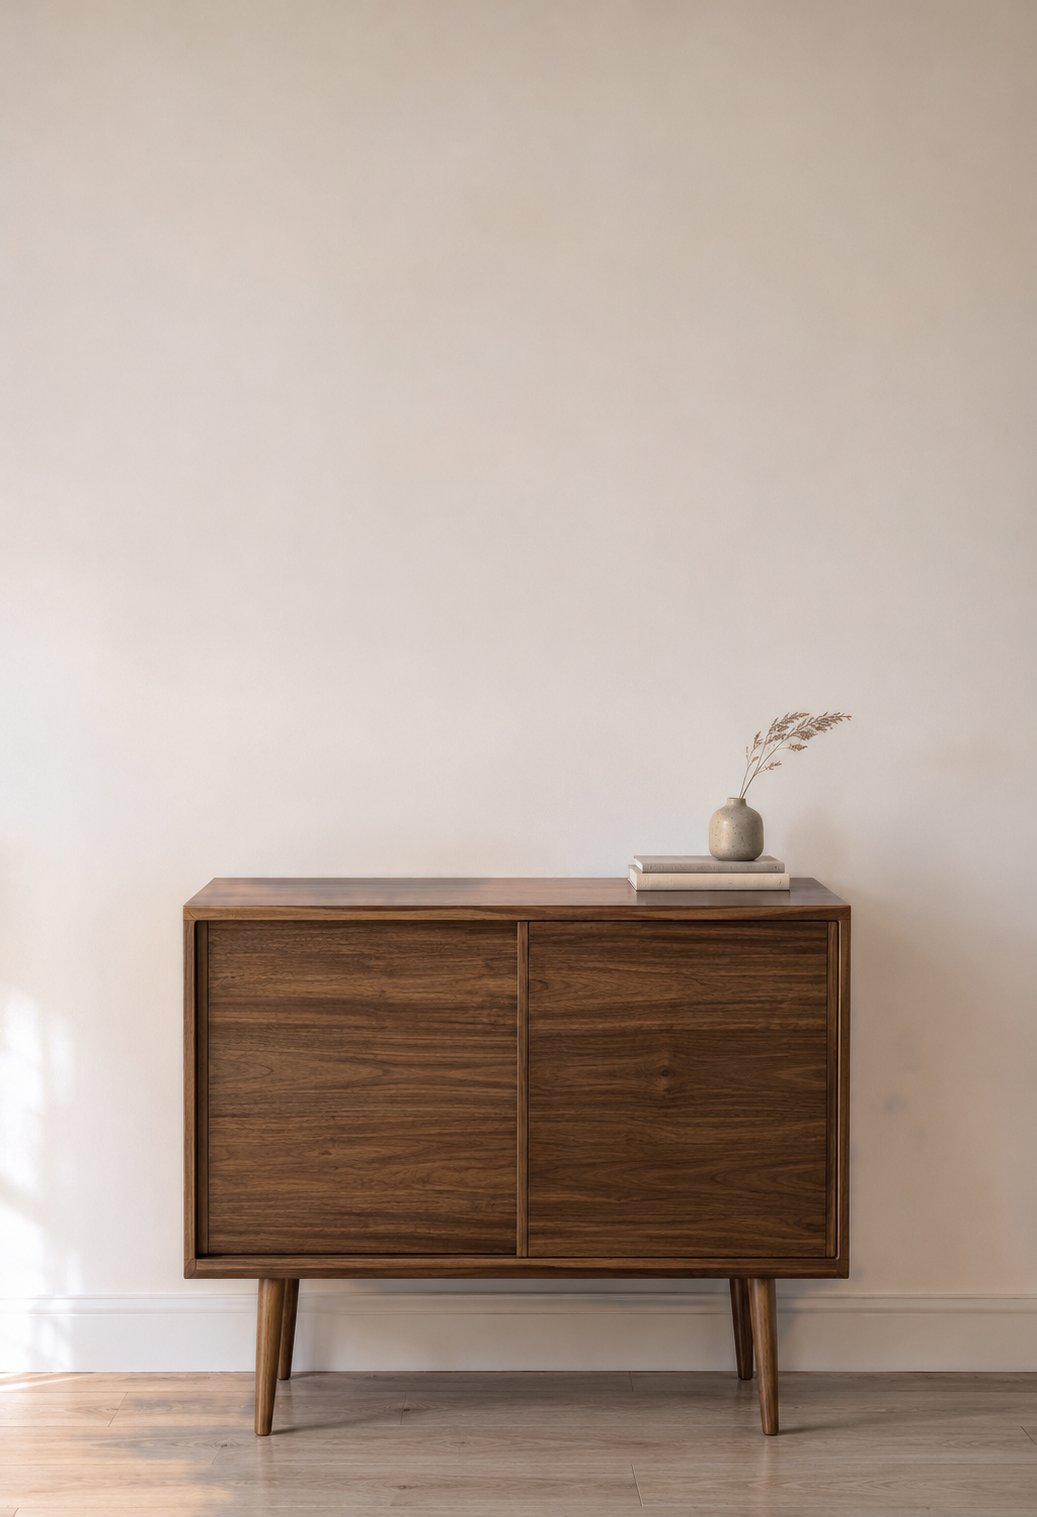
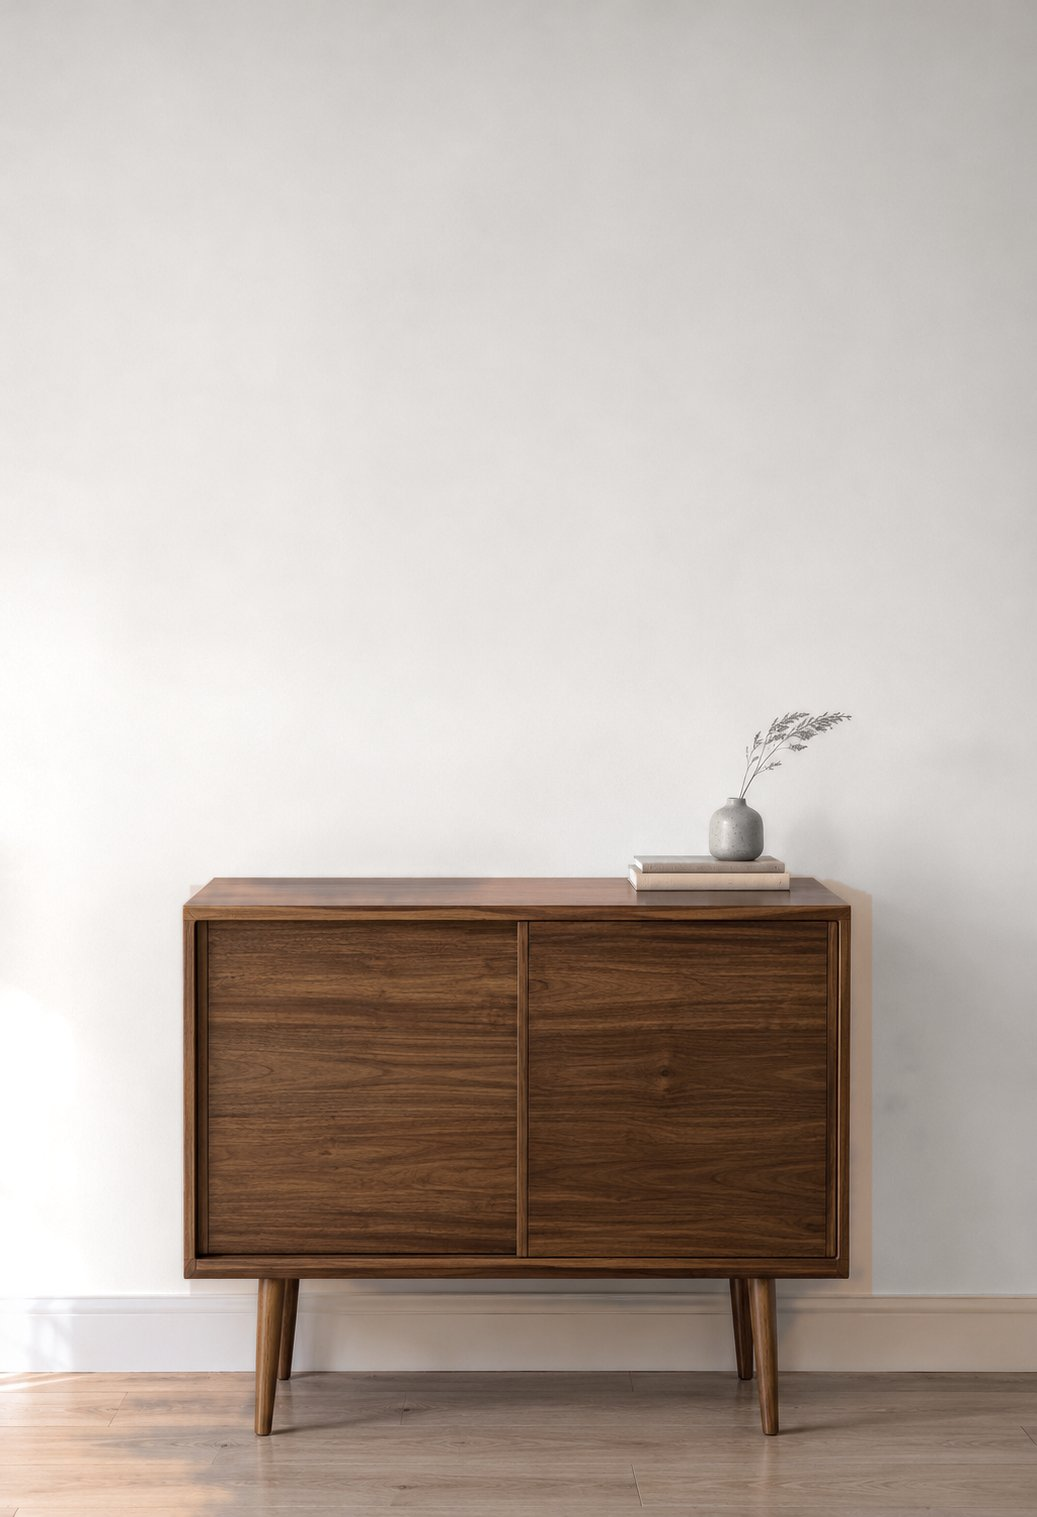
Soft white wall in the room view; Near the Austrian Border as the Landscapes tile
Claude-Session: https://claude.ai/code/session_01DXftZE4vQKfDt7Q36KHzd9

diff --git a/index.html b/index.html
@@ -34,7 +34,7 @@
 <p class="lede">Paintings and drawings, <span class="gap">[earliest surviving year]</span> to now</p>
 <p>Over more than sixty years, Joan Mullins has worked across a remarkable range of subjects and styles, from closely observed landscapes and botanical studies to intricate compositions drawn entirely from imagination. These galleries bring together the different strands of a lifetime’s painting.</p>
 </section>
-<section class="wrap block"><h2 class="eyebrow">The galleries</h2><div class="tiles"><a class="tile" href="g-landscapes.html"><img src="img/t/133.jpg" alt="Oil painting of five silver birch trees reflected in a still pool in a green meadow." loading="lazy"><span class="tn">Landscapes</span><span class="ts">Throughout her career</span></a><a class="tile" href="g-figurative-work.html"><img src="img/t/066.jpg" alt="Pencil drawing of three faces framed by flowing, patterned shapes and flowers." loading="lazy"><span class="tn">Figurative work</span><span class="ts">Throughout her career</span></a><a class="tile" href="g-botanical-work.html"><img src="img/t/039.jpg" alt="Watercolour of bright pink peonies with yellow centres, buds and green leaves, on white paper." loading="lazy"><span class="tn">Botanical work</span><span class="ts">About 1980 to 2000</span></a><a class="tile" href="g-watercolours-of-the-imagination.html"><img src="img/t/076.jpg" alt="Watercolour of a huge surging wave, with a small group of figures standing on the shore in the distance." loading="lazy"><span class="tn">Watercolours of the imagination</span><span class="ts">About the 1990s to 2013</span></a><a class="tile" href="g-still-life.html"><img src="img/t/019.jpg" alt="Oil still life of a small, round, spotted bowl lying beside white daisies on a blue checked cloth." loading="lazy"><span class="tn">Still life</span><span class="ts"><span class="gap">[Dates, from Joan]</span></span></a><a class="tile" href="g-illustrated-poems.html"><img src="img/t/p9.jpg" alt="Illustrated poem: the words of William Blake&#x27;s &#x27;The Tyger&#x27;, hand-lettered across a painting of a tiger&#x27;s face against a starry night sky." loading="lazy"><span class="tn">Illustrated poems</span><span class="ts">2018 to 2020</span></a><a class="tile" href="g-sea-imaginings.html"><img src="img/t/171.jpg" alt="Oil painting of a white argonaut shell against a swirling deep blue background." loading="lazy"><span class="tn">Sea imaginings</span><span class="ts">Since moving to Nantwich</span></a><a class="tile" href="sold.html"><img src="img/t/104.jpg" alt="Oil painting of birch trees in autumn" loading="lazy"><span class="tn">Sold</span><span class="ts">Paintings that have found homes</span></a></div><p class="after-tiles"><a href="for-sale.html">See all 80 paintings for sale</a></p></section>
+<section class="wrap block"><h2 class="eyebrow">The galleries</h2><div class="tiles"><a class="tile" href="g-landscapes.html"><img src="img/t/091.jpg" alt="Oil painting of green alpine valleys and mountains near the Austrian-German border, with a small farmhouse in the meadow." loading="lazy"><span class="tn">Landscapes</span><span class="ts">Throughout her career</span></a><a class="tile" href="g-figurative-work.html"><img src="img/t/066.jpg" alt="Pencil drawing of three faces framed by flowing, patterned shapes and flowers." loading="lazy"><span class="tn">Figurative work</span><span class="ts">Throughout her career</span></a><a class="tile" href="g-botanical-work.html"><img src="img/t/039.jpg" alt="Watercolour of bright pink peonies with yellow centres, buds and green leaves, on white paper." loading="lazy"><span class="tn">Botanical work</span><span class="ts">About 1980 to 2000</span></a><a class="tile" href="g-watercolours-of-the-imagination.html"><img src="img/t/076.jpg" alt="Watercolour of a huge surging wave, with a small group of figures standing on the shore in the distance." loading="lazy"><span class="tn">Watercolours of the imagination</span><span class="ts">About the 1990s to 2013</span></a><a class="tile" href="g-still-life.html"><img src="img/t/019.jpg" alt="Oil still life of a small, round, spotted bowl lying beside white daisies on a blue checked cloth." loading="lazy"><span class="tn">Still life</span><span class="ts"><span class="gap">[Dates, from Joan]</span></span></a><a class="tile" href="g-illustrated-poems.html"><img src="img/t/p9.jpg" alt="Illustrated poem: the words of William Blake&#x27;s &#x27;The Tyger&#x27;, hand-lettered across a painting of a tiger&#x27;s face against a starry night sky." loading="lazy"><span class="tn">Illustrated poems</span><span class="ts">2018 to 2020</span></a><a class="tile" href="g-sea-imaginings.html"><img src="img/t/171.jpg" alt="Oil painting of a white argonaut shell against a swirling deep blue background." loading="lazy"><span class="tn">Sea imaginings</span><span class="ts">Since moving to Nantwich</span></a><a class="tile" href="sold.html"><img src="img/t/104.jpg" alt="Oil painting of birch trees in autumn" loading="lazy"><span class="tn">Sold</span><span class="ts">Paintings that have found homes</span></a></div><p class="after-tiles"><a href="for-sale.html">See all 80 paintings for sale</a></p></section>
 <section class="band"><div class="wrap about-strip">
 <img src="img/joan.jpg" alt="Joan Mullins smiling, in a coral cardigan and patterned scarf, with her paintings on the wall behind her">
 <div class="copy"><h2>About Joan</h2>

diff --git a/gallery.html b/gallery.html
@@ -29,7 +29,7 @@
 <section class="wrap block">
 <h1>Gallery</h1>
 <p class="lead">101 paintings and drawings in seven galleries, with a section for work that has sold.</p>
-<div class="tiles"><a class="tile" href="g-landscapes.html"><img src="img/t/133.jpg" alt="Oil painting of five silver birch trees reflected in a still pool in a green meadow." loading="lazy"><span class="tn">Landscapes</span><span class="ts">Throughout her career</span></a><a class="tile" href="g-figurative-work.html"><img src="img/t/066.jpg" alt="Pencil drawing of three faces framed by flowing, patterned shapes and flowers." loading="lazy"><span class="tn">Figurative work</span><span class="ts">Throughout her career</span></a><a class="tile" href="g-botanical-work.html"><img src="img/t/039.jpg" alt="Watercolour of bright pink peonies with yellow centres, buds and green leaves, on white paper." loading="lazy"><span class="tn">Botanical work</span><span class="ts">About 1980 to 2000</span></a><a class="tile" href="g-watercolours-of-the-imagination.html"><img src="img/t/076.jpg" alt="Watercolour of a huge surging wave, with a small group of figures standing on the shore in the distance." loading="lazy"><span class="tn">Watercolours of the imagination</span><span class="ts">About the 1990s to 2013</span></a><a class="tile" href="g-still-life.html"><img src="img/t/019.jpg" alt="Oil still life of a small, round, spotted bowl lying beside white daisies on a blue checked cloth." loading="lazy"><span class="tn">Still life</span><span class="ts"><span class="gap">[Dates, from Joan]</span></span></a><a class="tile" href="g-illustrated-poems.html"><img src="img/t/p9.jpg" alt="Illustrated poem: the words of William Blake&#x27;s &#x27;The Tyger&#x27;, hand-lettered across a painting of a tiger&#x27;s face against a starry night sky." loading="lazy"><span class="tn">Illustrated poems</span><span class="ts">2018 to 2020</span></a><a class="tile" href="g-sea-imaginings.html"><img src="img/t/171.jpg" alt="Oil painting of a white argonaut shell against a swirling deep blue background." loading="lazy"><span class="tn">Sea imaginings</span><span class="ts">Since moving to Nantwich</span></a><a class="tile" href="sold.html"><img src="img/t/104.jpg" alt="Oil painting of birch trees in autumn" loading="lazy"><span class="tn">Sold</span><span class="ts">Paintings that have found homes</span></a></div><p class="after-tiles"><a href="for-sale.html">See all 80 paintings for sale</a></p></section>
+<div class="tiles"><a class="tile" href="g-landscapes.html"><img src="img/t/091.jpg" alt="Oil painting of green alpine valleys and mountains near the Austrian-German border, with a small farmhouse in the meadow." loading="lazy"><span class="tn">Landscapes</span><span class="ts">Throughout her career</span></a><a class="tile" href="g-figurative-work.html"><img src="img/t/066.jpg" alt="Pencil drawing of three faces framed by flowing, patterned shapes and flowers." loading="lazy"><span class="tn">Figurative work</span><span class="ts">Throughout her career</span></a><a class="tile" href="g-botanical-work.html"><img src="img/t/039.jpg" alt="Watercolour of bright pink peonies with yellow centres, buds and green leaves, on white paper." loading="lazy"><span class="tn">Botanical work</span><span class="ts">About 1980 to 2000</span></a><a class="tile" href="g-watercolours-of-the-imagination.html"><img src="img/t/076.jpg" alt="Watercolour of a huge surging wave, with a small group of figures standing on the shore in the distance." loading="lazy"><span class="tn">Watercolours of the imagination</span><span class="ts">About the 1990s to 2013</span></a><a class="tile" href="g-still-life.html"><img src="img/t/019.jpg" alt="Oil still life of a small, round, spotted bowl lying beside white daisies on a blue checked cloth." loading="lazy"><span class="tn">Still life</span><span class="ts"><span class="gap">[Dates, from Joan]</span></span></a><a class="tile" href="g-illustrated-poems.html"><img src="img/t/p9.jpg" alt="Illustrated poem: the words of William Blake&#x27;s &#x27;The Tyger&#x27;, hand-lettered across a painting of a tiger&#x27;s face against a starry night sky." loading="lazy"><span class="tn">Illustrated poems</span><span class="ts">2018 to 2020</span></a><a class="tile" href="g-sea-imaginings.html"><img src="img/t/171.jpg" alt="Oil painting of a white argonaut shell against a swirling deep blue background." loading="lazy"><span class="tn">Sea imaginings</span><span class="ts">Since moving to Nantwich</span></a><a class="tile" href="sold.html"><img src="img/t/104.jpg" alt="Oil painting of birch trees in autumn" loading="lazy"><span class="tn">Sold</span><span class="ts">Paintings that have found homes</span></a></div><p class="after-tiles"><a href="for-sale.html">See all 80 paintings for sale</a></p></section>
 </main>
 <footer class="site-foot"><div class="wrap">
 <span>Joan Mullins, painter, Nantwich, Cheshire</span>

diff --git a/tools/build.py b/tools/build.py
@@ -27,7 +27,7 @@ e = lambda s: html.escape(str(s), quote=True)
 
 GALLERIES = [
     # slug, name, tile work id, line under the tile, intro, group order
-    ('landscapes', 'Landscapes', '133', 'Throughout her career',
+    ('landscapes', 'Landscapes', '091', 'Throughout her career',
      'Trees and woodland, the sea and shore, and the countryside of Cheshire, the Wirral and Hampshire.',
      ['Trees and woodland', 'Sea and shore', 'Countryside', 'Buildings and old places']),
     ('figurative-work', 'Figurative work', '066', 'Throughout her career',
@@ -154,7 +154,7 @@ def sort_key(w):
 
 def wall_view(w):
     """The painting at true size above a walnut cabinet, when its size is known.
-    The room picture (img/room.jpg, 1037 x 1517 px) was made by Steph and toned down; at the wall 7.6 px = 1 cm.
+    The room picture (img/room.jpg, 1037 x 1517 px) was made by Steph; the wood was calmed and the wall made a soft white (10 Nov); at the wall 7.6 px = 1 cm.
     The cabinet (about 90 cm wide, 70 cm high) is centred at x = 516 px with its top at y = 880 px.
     Each picture hangs centred over it, its lowest edge 20 cm above the top (789 px from the bottom of the picture).
     Works on paper are shown in a typical mount and thin black frame (not included unless recorded as framed);
